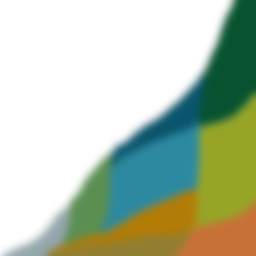
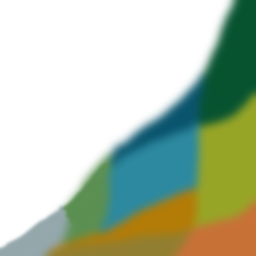
feat: more planet gen stuff tuning so all the biomes arent in a line on the equator

Changed region(s): [[0.0, 0.7188, 0.3438, 1.0]]

diff --git a/EnvironmentalEngine.D3D11/Node.cpp b/EnvironmentalEngine.D3D11/Node.cpp
@@ -68,7 +68,7 @@ namespace EnvironmentalEngine {
 		percipitationN.SetNoiseType(FastNoiseLite::NoiseType_OpenSimplex2);
 		percipitationN.SetFractalType(FastNoiseLite::FractalType_FBm);
 		percipitationN.SetFractalOctaves(2);
-		percipitationN.SetFrequency(3.0f);
+		percipitationN.SetFrequency(1.0f);
 		percipitationN.SetFractalGain(0.5f);
 
 
@@ -89,8 +89,8 @@ namespace EnvironmentalEngine {
 
 				float h = radius;
 
-				if (x >= 0 && x < res && y >= 0 && y < res) vertices.push_back({ spherePos.x * h, spherePos.y * h, spherePos.z * h, 0.0f, 0.0f, 0.0f, e, 1 - (std::fabsf)(spherePos.y), (std::max)( percipitationN.GetNoise(spherePos.x, spherePos.y, spherePos.z), 0.0f)});
-				else vertices.push_back({ spherePos.x * h * 0.99f, spherePos.y * h * 0.99f, spherePos.z * h * 0.99f, 0.0f, 0.0f, 0.0f, e, 1 - (std::fabsf)(spherePos.y), (std::max)(percipitationN.GetNoise(spherePos.x, spherePos.y, spherePos.z), 0.0f) });
+				if (x >= 0 && x < res && y >= 0 && y < res) vertices.push_back({ spherePos.x * h, spherePos.y * h, spherePos.z * h, 0.0f, 0.0f, 0.0f, e, 1 - (std::fabsf)(spherePos.y),  percipitationN.GetNoise(spherePos.x, spherePos.y, spherePos.z)});
+				else vertices.push_back({ spherePos.x * h * 0.99f, spherePos.y * h * 0.99f, spherePos.z * h * 0.99f, 0.0f, 0.0f, 0.0f, e, 1 - (std::fabsf)(spherePos.y), percipitationN.GetNoise(spherePos.x, spherePos.y, spherePos.z) });
 			}
 		}
 
